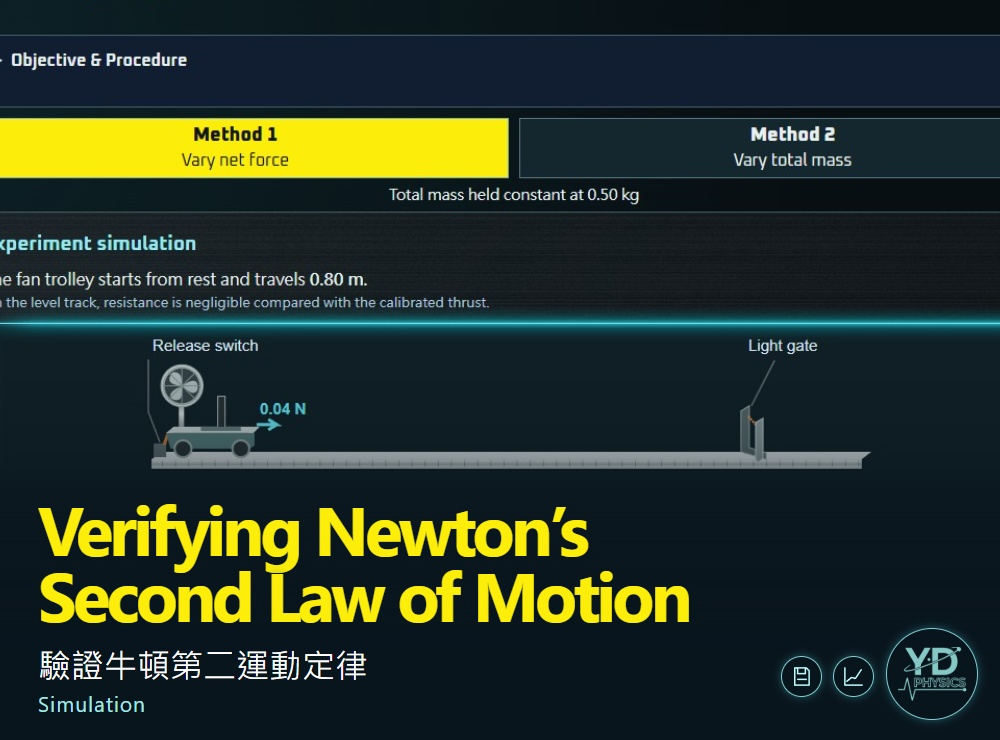
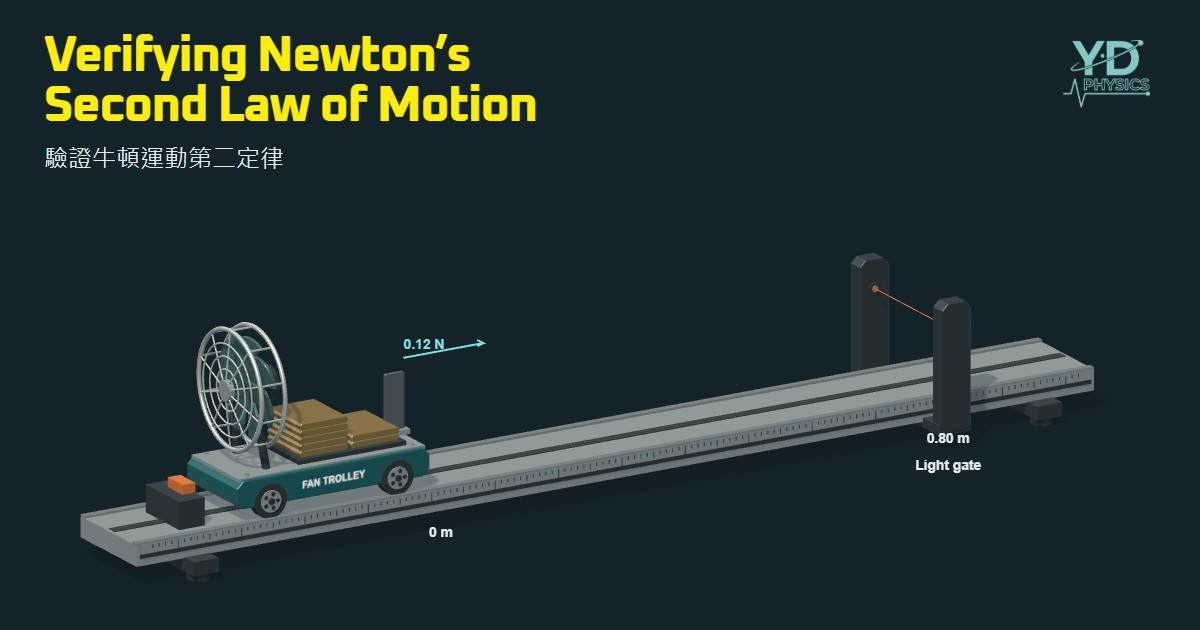
Update social preview to show the 3D Newton trolley

diff --git a/newton-second-law.html b/newton-second-law.html
@@ -4,14 +4,14 @@
 <meta property="og:title" content="Verifying Newton’s Second Law of Motion | Simulation">
 <meta property="og:description" content="Predict acceleration from net force and mass. 根據合力和質量預測加速度。">
 <meta property="og:url" content="https://ydss-lku.github.io/physim/newton-second-law.html">
-<meta property="og:image" content="https://ydss-lku.github.io/physim/assets/share/newton-second-law.jpg">
-<meta property="og:image:width" content="1000">
-<meta property="og:image:height" content="740">
-<meta property="og:image:alt" content="Verifying Newton’s Second Law of Motion — YD Physics">
+<meta property="og:image" content="https://ydss-lku.github.io/physim/assets/share/newton-second-law.jpg?v=3d-trolley">
+<meta property="og:image:width" content="1200">
+<meta property="og:image:height" content="630">
+<meta property="og:image:alt" content="3D fan trolley carrying masses on a track with a light gate 0.80 m from the start.">
 <meta name="twitter:card" content="summary_large_image">
 <meta name="twitter:title" content="Verifying Newton’s Second Law of Motion | Simulation">
 <meta name="twitter:description" content="Predict acceleration from net force and mass. 根據合力和質量預測加速度。">
-<meta name="twitter:image" content="https://ydss-lku.github.io/physim/assets/share/newton-second-law.jpg">
+<meta name="twitter:image" content="https://ydss-lku.github.io/physim/assets/share/newton-second-law.jpg?v=3d-trolley">
 <meta charset="utf-8"><link rel="stylesheet" href="assets/simulation-layout.css"><link rel="stylesheet" href="assets/author-credit.css"><script src="assets/language-copy.js"></script><script src="assets/language.js?v=afd2e35"></script><script defer src="assets/control-icons.js"></script><link rel="stylesheet" href="cyberpunk-assets/augmented-ui.min.css"><link rel="stylesheet" href="assets/night-collection.css"><script src="assets/night-theme.js"></script><script defer src="assets/night-collection.js"></script><meta name="viewport" content="width=device-width,initial-scale=1"><title data-en="Newton’s second law of motion · YD Physics" data-zh="牛頓運動第二定律 · YD Physics">Newton’s second law of motion · YD Physics</title>
 <style>
 *{box-sizing:border-box}body{margin:auto;max-width:1160px;padding:32px 4%;background:#f5f4ef;color:#193a39;font:16px/1.5 "Microsoft JhengHei",sans-serif}h1{font-size:clamp(28px,5vw,48px);letter-spacing:-.04em;margin:4px 0 20px}h2{font-size:19px;margin:0}button{font:inherit;font-weight:bold;color:inherit;background:white;border:1px solid #9baea8;border-radius:8px;padding:9px 15px;cursor:pointer}button:disabled{opacity:.43;cursor:default}button:focus-visible{outline:3px solid #ec952a}nav,.controls,.head{display:flex;gap:10px;align-items:center;flex-wrap:wrap}nav button[aria-pressed=true],.primary{background:#125f58;color:white}.panel{background:#fff;border:1px solid #cdd5cf;border-radius:15px;padding:20px;margin-top:16px}.head{justify-content:space-between}.lab{background:#e9f2eb}.lab svg{width:100%;display:block}.controls{justify-content:space-between}.setting{display:flex;align-items:center;gap:10px}.read{font-variant-numeric:tabular-nums;font-weight:bold}.grid{display:grid;grid-template-columns:1fr 1.2fr;gap:16px}table{width:100%;border-collapse:collapse;text-align:center;margin:14px 0}td,th{padding:7px 2px;border-bottom:1px solid #e2e7e1}th{font-size:14px}.active{background:#ffe4a8}#graph{width:100%;display:block}#slope,#finish{font-size:18px;line-height:1.8}#finish{text-align:center}small{color:#516761}svg text{font-family:Arial,"Microsoft JhengHei",sans-serif;fill:#294944}button:hover:enabled{filter:brightness(.94)}@media(max-width:720px){body{padding:16px}.grid{display:block}.panel{padding:14px}.controls{gap:12px}.setting{gap:6px}}
